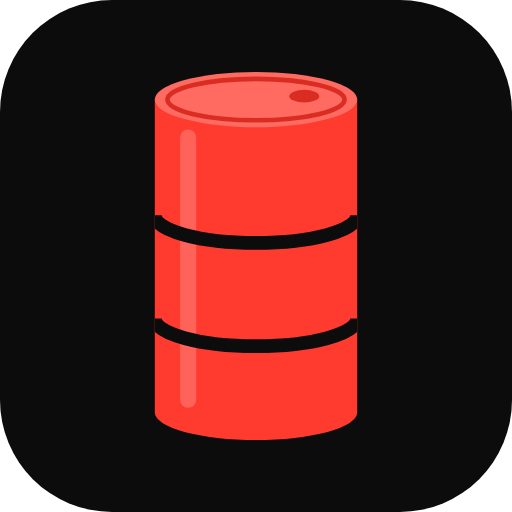
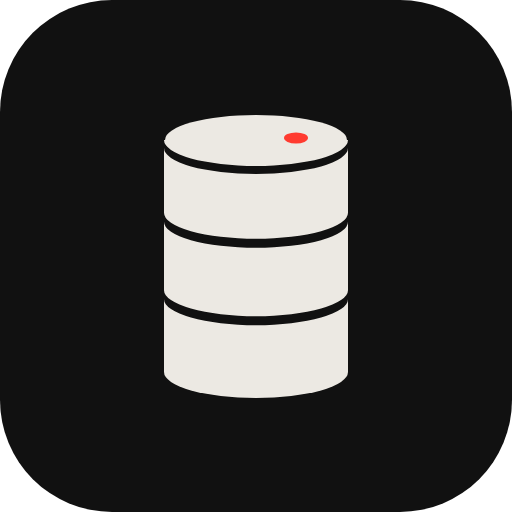
Icône : fût ivoire mat sur noir, bouchon rouge
Remplace le fût rouge, jugé trop chargé : dessin à plat, sans reflet,
cerclages d'épaisseur constante. Le petit fût de l'en-tête suit le même
dessin. outils/icone.py produit les trois variantes (arrondie, masquable
Android, iOS).

Claude-Session: https://claude.ai/code/session_01G21gkgASnrftC8dshwXyDc

Changed region(s): [[0.2812, 0.125, 0.7188, 0.875]]

diff --git a/site/index.html b/site/index.html
@@ -39,7 +39,7 @@
   --texte-doux: #dcdcdc;
   --blanc: #f4f4f2;
   --rouge: #ff3b30;
-  --rouge-clair: #ff6b61;
+  --ivoire: #ece9e3;
   --display: "IBM Plex Sans Condensed", "Arial Narrow", "Helvetica Neue", sans-serif;
   --texte: "IBM Plex Sans", "Helvetica Neue", Arial, sans-serif;
   --chiffres: "IBM Plex Mono", ui-monospace, "SFMono-Regular", Menlo, monospace;
@@ -247,7 +247,7 @@ body[data-mode="details"] .leaflet-right { right: 416px; }
 
 <header class="barre">
   <div class="marque-bloc">
-    <p class="marque"><svg viewBox="0 0 12 15" aria-hidden="true"><path d="M1 2.4V12.6A5 1.7 0 0 0 11 12.6V2.4Z" fill="var(--rouge)"/><path d="M1 6.1A5 1.7 0 0 0 11 6.1M1 9.6A5 1.7 0 0 0 11 9.6" fill="none" stroke="var(--fond)" stroke-width=".9"/><ellipse cx="6" cy="2.4" rx="5" ry="1.7" fill="var(--rouge-clair)"/></svg>Vigie <span>·</span> pétrole</p>
+    <p class="marque"><svg viewBox="0 0 12 15" aria-hidden="true"><path d="M1 2.4V12.6A5 1.7 0 0 0 11 12.6V2.4Z" fill="var(--ivoire)"/><path d="M1 2.7A5 1.7 0 0 0 11 2.7M1 6.1A5 1.7 0 0 0 11 6.1M1 9.6A5 1.7 0 0 0 11 9.6" fill="none" stroke="var(--fond)" stroke-width=".7"/><ellipse cx="6" cy="2.35" rx="4.9" ry="1.6" fill="var(--ivoire)"/><ellipse cx="8.3" cy="2.2" rx=".95" ry=".5" fill="var(--rouge)"/></svg>Vigie <span>·</span> pétrole</p>
     <p class="compteur" id="compteur">Chargement des positions…</p>
     <p class="demo" id="bandeau-demo" hidden>Démo · données fictives</p>
   </div>

diff --git a/site/sw.js b/site/sw.js
@@ -2,7 +2,7 @@
 // - Fichiers du site et données : réseau d'abord (les données changent chaque heure), cache si hors ligne.
 // - Bibliothèques et polices des CDN (versions figées) : cache d'abord, mises à jour en arrière-plan.
 
-const CACHE = "vigie-v1";
+const CACHE = "vigie-v2";
 const COQUILLE = [
   "./",
   "index.html",

diff --git a/outils/icone.py b/outils/icone.py
@@ -1,42 +1,56 @@
-"""Icône Vigie pétrole : un fût de pétrole vu de trois quarts, flancs droits, deux cerclages."""
+"""Icône de Vigie pétrole : un fût ivoire mat sur fond noir, bouchon rouge.
 
-G, D, H, B, RY = 168, 344, 120, 392, 24   # gauche, droite, haut, bas du corps, demi-hauteur des ellipses
-CX, RX = (G + D) / 2, (D - G) / 2
+    python outils/icone.py site/      écrit icon.svg, icon-maskable.svg et apple-touch-icon.svg
+
+Les PNG (192, 512, masquable, iOS) se rendent ensuite depuis ces SVG avec n'importe quel
+navigateur ou outil de conversion. Le fût a les proportions d'un vrai fût de 200 litres ;
+les cerclages sont des bandes d'épaisseur constante qui suivent la courbure du cylindre.
+"""
+
+from __future__ import annotations
+
+import sys
+from pathlib import Path
+
+IVOIRE, NOIR, ROUGE = "#ECE9E3", "#111111", "#FF3B30"
+CX, RX, RY = 256, 92, 26          # centre, demi-largeur, demi-hauteur des ellipses
+HAUT, BAS = 140, 372              # centre de l'ellipse du couvercle et du fond
+G, D = CX - RX, CX + RX
+C1, C2 = HAUT + (BAS - HAUT) / 3, HAUT + 2 * (BAS - HAUT) / 3
 
 
-def corps():
-    return f"M{G} {H}V{B}A{RX} {RY} 0 0 0 {D} {B}V{H}Z"
+def bande(y: float, e: float) -> str:
+    """Bande d'épaisseur verticale constante e centrée sur la courbe du cylindre à la hauteur y."""
+    h = e / 2
+    return f"M{G} {y - h}A{RX} {RY} 0 0 0 {D} {y - h}V{y + h}A{RX} {RY} 0 0 1 {G} {y + h}Z"
 
 
-def cerclage(y):
-    return f"M{G} {y}A{RX} {RY} 0 0 0 {D} {y}"
+def corps() -> str:
+    return f"M{G} {HAUT}V{BAS}A{RX} {RY} 0 0 0 {D} {BAS}V{HAUT}Z"
 
 
-def svg(fond_plein=False, echelle=1.0, teinte="rouge", fond="#0c0c0c", rayon=112):
-    if teinte == "rouge":
-        c, couvercle, rebord, ombre = "#ff3b30", "#ff6b61", "#d92d23", "#0c0c0c"
-    else:
-        c, couvercle, rebord, ombre = "#efefec", "#ffffff", "#c9c9c4", "#0c0c0c"
-    fond_svg = f'<rect width="512" height="512" fill="{fond}"/>' if fond_plein else f'<rect width="512" height="512" rx="{rayon}" fill="{fond}"/>'
+def icone(fond_plein: bool = False, echelle: float = 1.0) -> str:
+    fond = f'<rect width="512" height="512" fill="{NOIR}"/>' if fond_plein else f'<rect width="512" height="512" rx="112" fill="{NOIR}"/>'
     t = f"translate(256 256) scale({echelle}) translate(-256 -256)"
-    y1, y2 = H + (B - H) * 0.37, H + (B - H) * 0.70
     return f'''<svg xmlns="http://www.w3.org/2000/svg" viewBox="0 0 512 512">
-{fond_svg}
+{fond}
 <defs><clipPath id="f"><path d="{corps()}"/></clipPath></defs>
 <g transform="{t}">
-  <path d="{corps()}" fill="{c}"/>
-  <rect x="{G + 22}" y="{H + 26}" width="14" height="{B - H - 30}" rx="7" fill="#fff" opacity="{0.2 if teinte == 'rouge' else 0}"/>
-  <g clip-path="url(#f)" fill="none" stroke="{ombre}" stroke-width="12">
-    <path d="{cerclage(y1)}"/><path d="{cerclage(y2)}"/>
-  </g>
-  <ellipse cx="{CX}" cy="{H}" rx="{RX}" ry="{RY}" fill="{couvercle}"/>
-  <ellipse cx="{CX}" cy="{H}" rx="{RX - 11}" ry="{RY - 6}" fill="none" stroke="{rebord}" stroke-width="4"/>
-  <ellipse cx="{CX + 42}" cy="{H - 3}" rx="13" ry="5.5" fill="{rebord}"/>
+  <path d="{corps()}" fill="{IVOIRE}"/>
+  <g fill="{NOIR}" clip-path="url(#f)"><path d="{bande(C1, 9)}"/><path d="{bande(C2, 9)}"/><path d="{bande(HAUT + 4, 8)}"/></g>
+  <ellipse cx="{CX}" cy="{HAUT}" rx="{RX - 1}" ry="{RY - 1}" fill="{IVOIRE}"/>
+  <ellipse cx="{CX + 40}" cy="{HAUT - 2}" rx="12" ry="5.5" fill="{ROUGE}"/>
 </g>
-</svg>'''
+</svg>
+'''
+
+
+def main(dossier: str = ".") -> None:
+    sortie = Path(dossier)
+    (sortie / "icon.svg").write_text(icone())                                   # onglet, icône « any » arrondie
+    (sortie / "icon-maskable.svg").write_text(icone(fond_plein=True, echelle=0.92))  # Android : zone sûre de 80 %
+    (sortie / "apple-touch-icon.svg").write_text(icone(fond_plein=True, echelle=1.05))  # iOS arrondit lui-même
 
 
 if __name__ == "__main__":
-    open("icon.svg", "w").write(svg(echelle=1.15))                      # favicon et icône « any »
-    open("icon-maskable.svg", "w").write(svg(fond_plein=True, echelle=0.95))  # Android, zone sûre de 80 %
-    open("apple-touch-icon.svg", "w").write(svg(fond_plein=True, echelle=1.08))  # iOS arrondit lui-même
+    main(sys.argv[1] if len(sys.argv) > 1 else ".")
